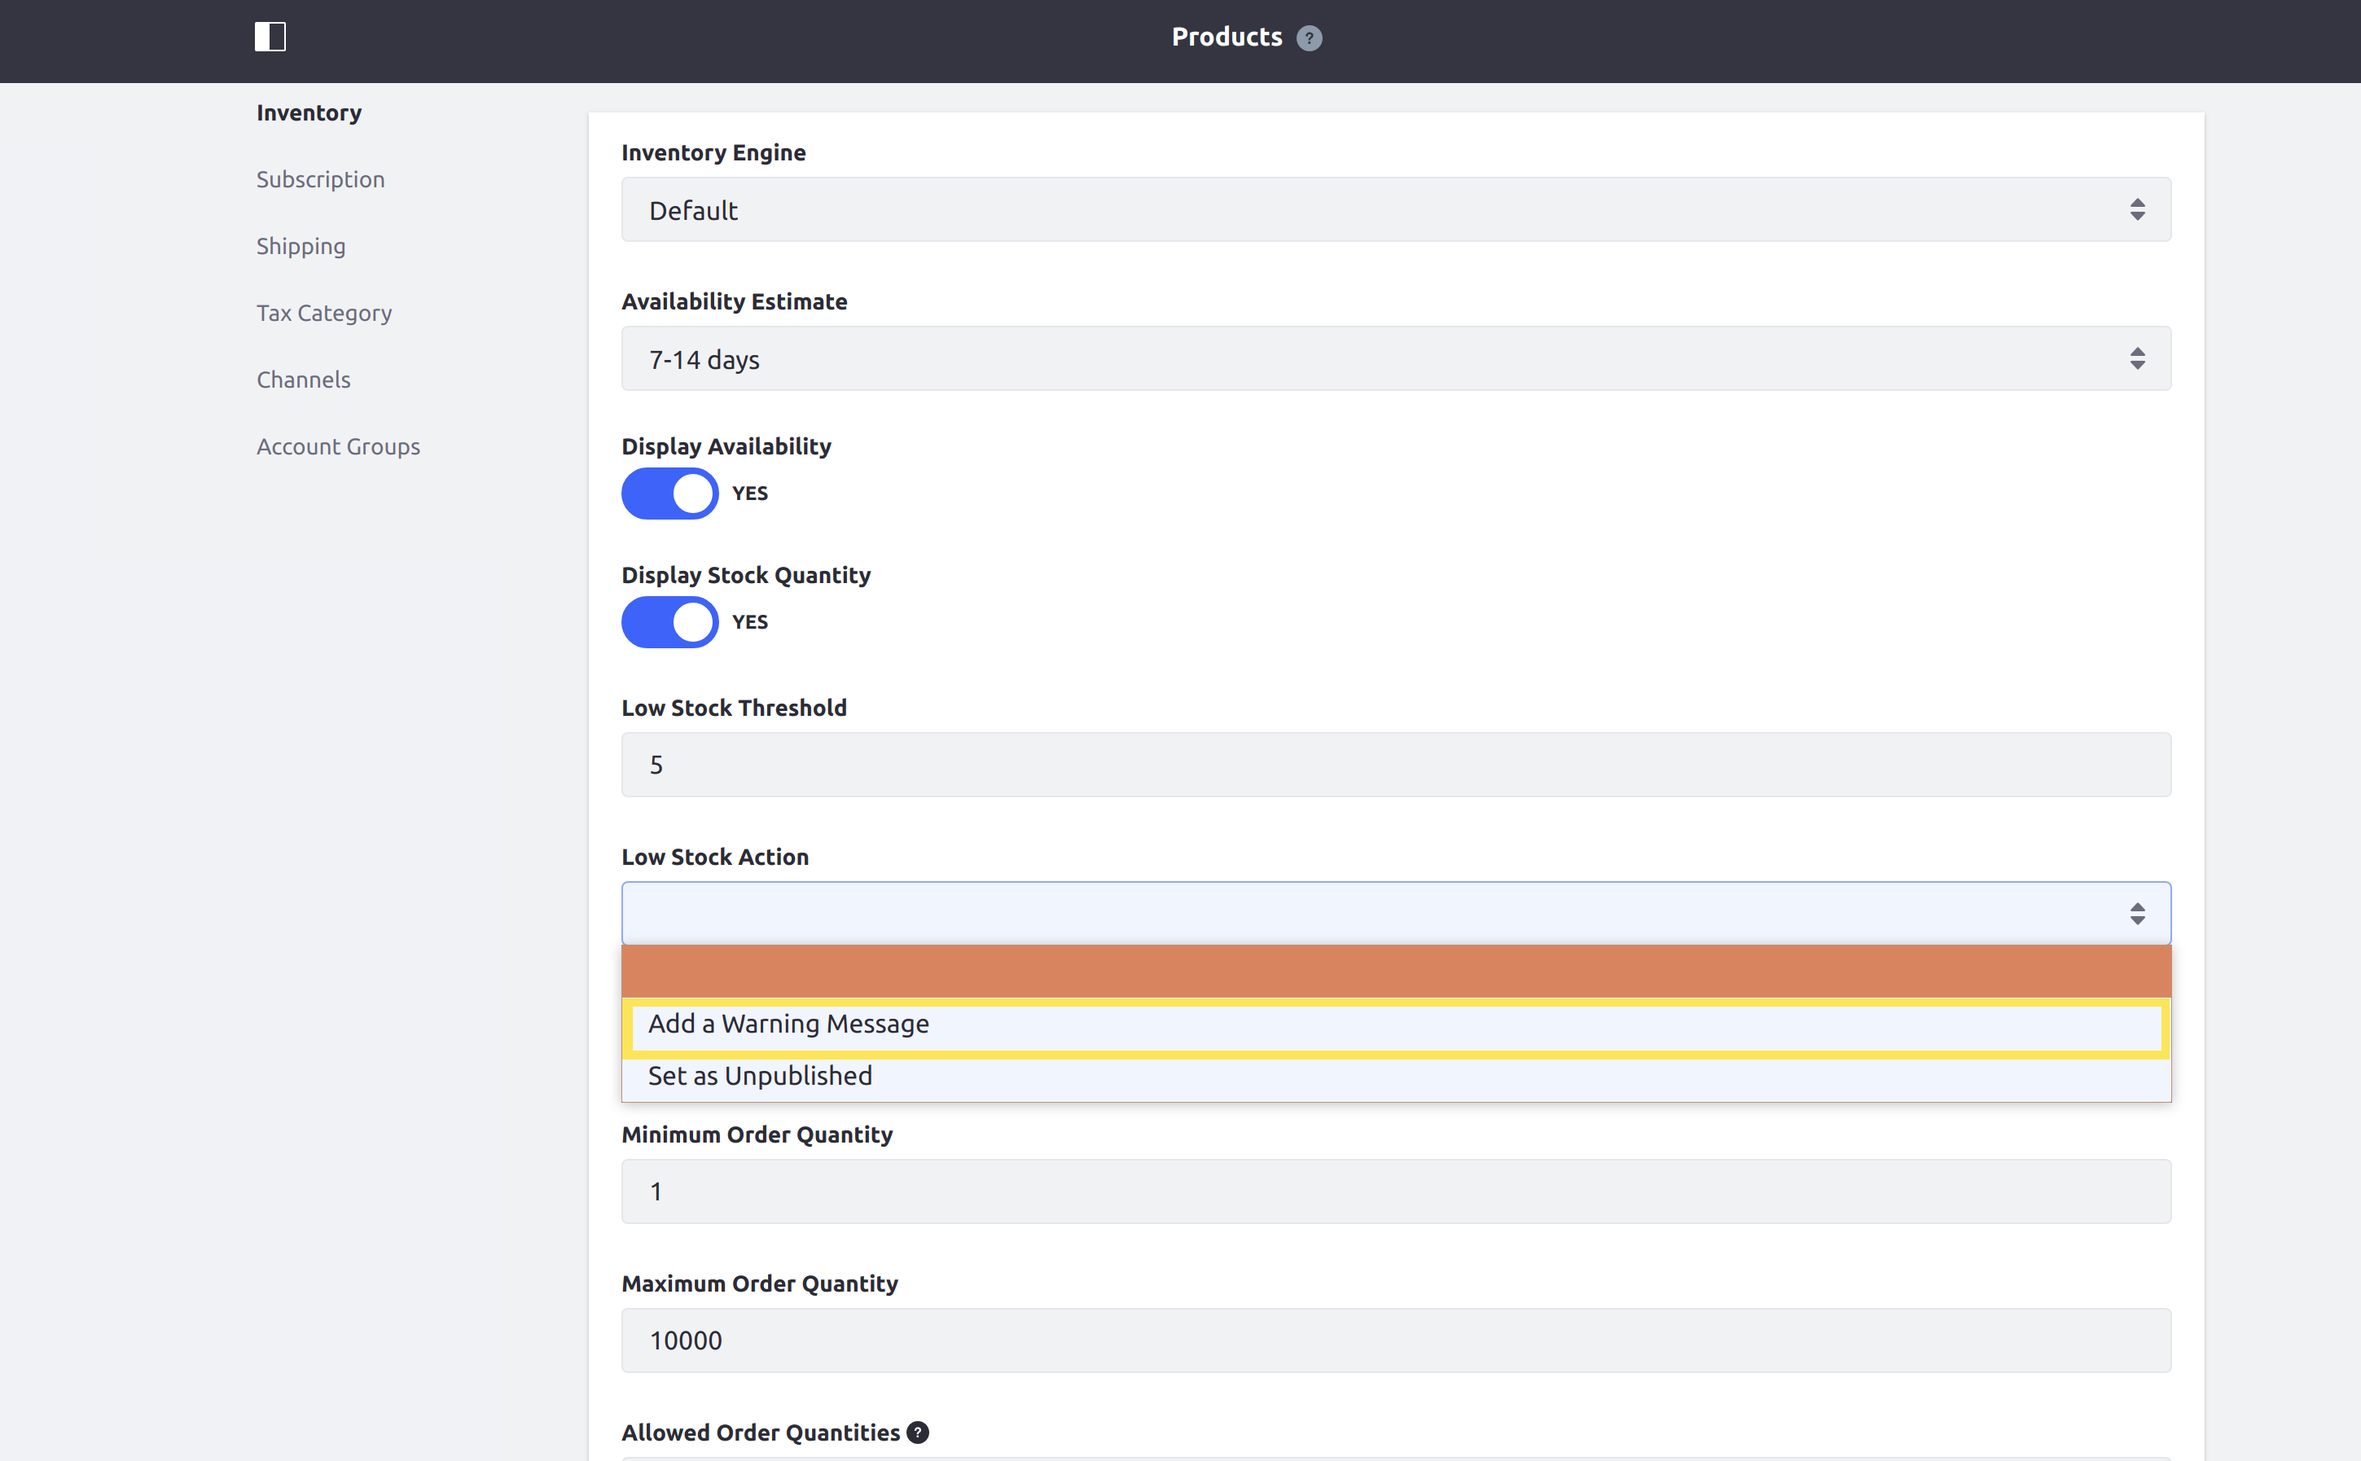
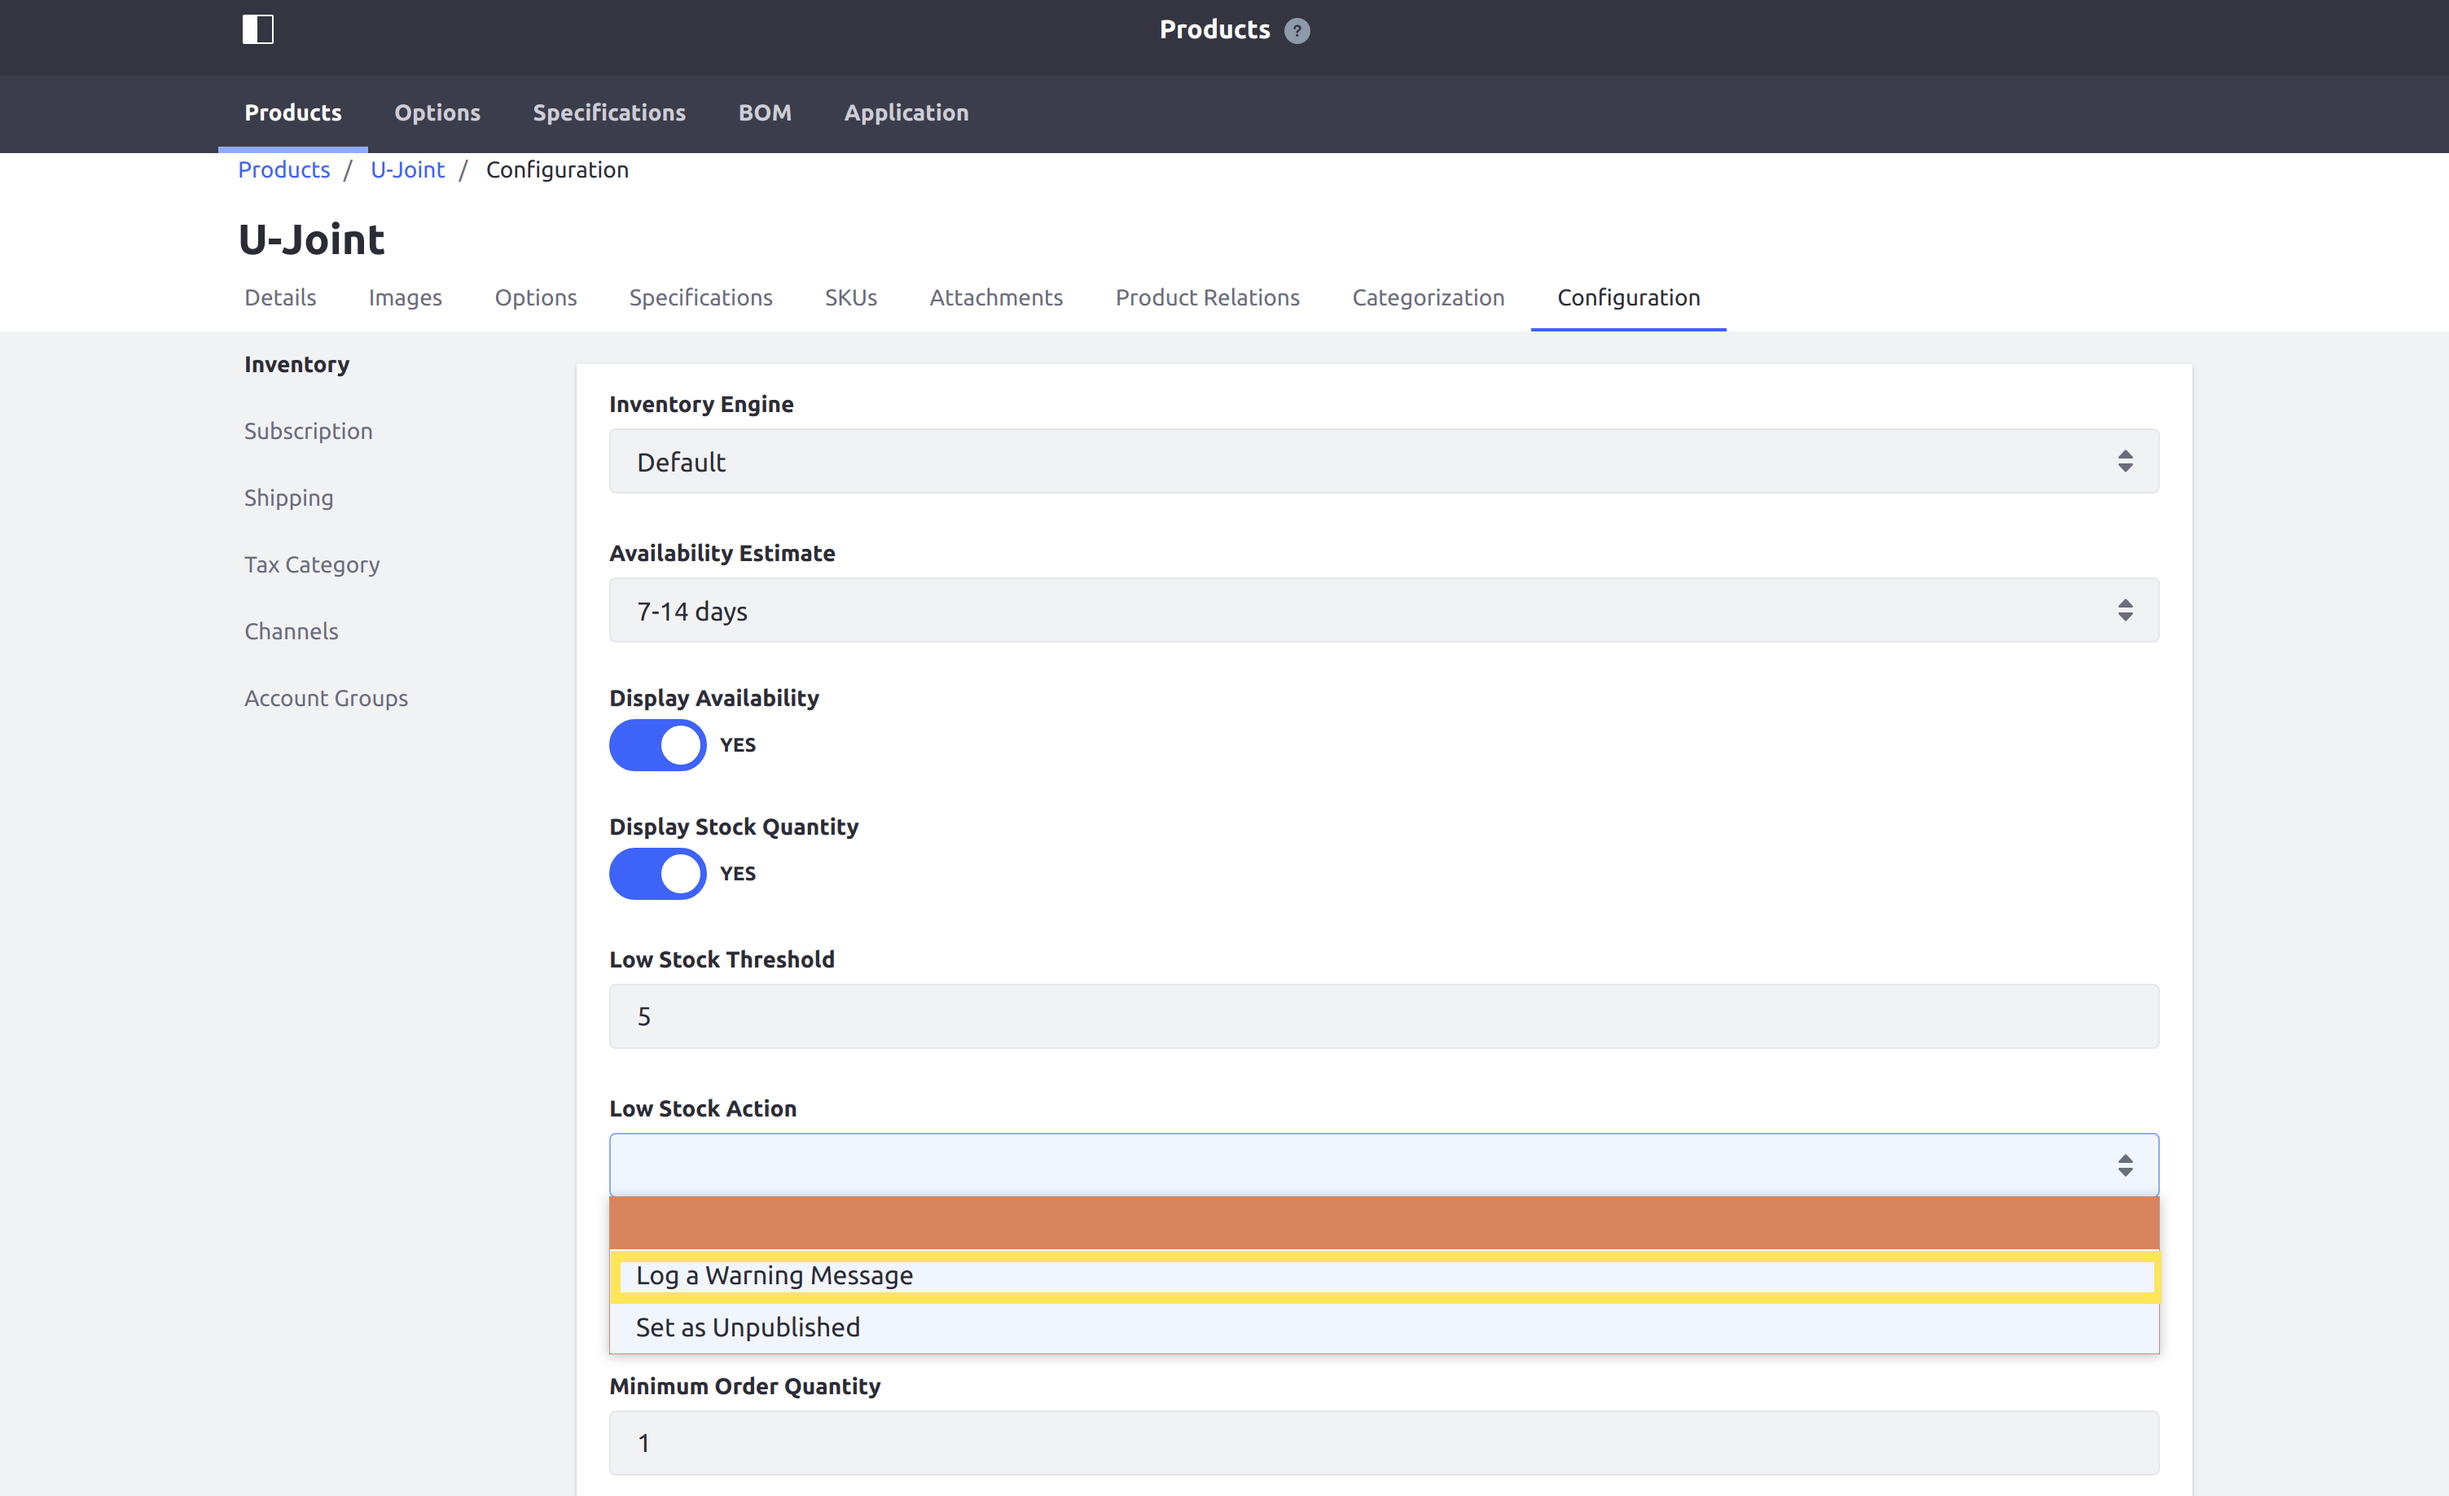
Correct example with new wording (and fix typo)

diff --git a/commerce/developer-guide/tutorial/implementing-a-custom-low-stock-activity/README.md b/commerce/developer-guide/tutorial/implementing-a-custom-low-stock-activity/README.md
@@ -54,7 +54,7 @@ In this section, we will get an example low stock activity up and running on you
 
 1. Verify that the example new low stock activity was added. Open your browser to `https://localhost:8080` and navigate to _Control Panel_ → _Commerce_ → _Products_. Then, for any product, click _Edit_ within its menu. If necessary, you can add a product to do this with (see [Products](https://commerce.liferay.dev/user-guide/-/knowledge_base/user/products) for help).
 
-   From there, navigate to _Configuration_. On this screen, under the _Low Stock Action_ dropdown, the new activity ("Add a warning message") will be present.
+   From there, navigate to _Configuration_. On this screen, under the _Low Stock Action_ dropdown, the new activity ("Log a warning message") will be present.
 
 ![New low stock activity](./images/02.png "New low stock activity")
 
@@ -80,7 +80,7 @@ public class J1E4CommerceLowStockActivity implements CommerceLowStockActivity {
     public static final String KEY = "example";
 ```
 
-> It is important to provide a distinct key for your payment method so that Liferay Commerce can distinguish your new low stock activity from others in the [low stock activity registry](https://raw.githubusercontent.com/liferay/com-liferay-commerce/7.1.x/commerce-api/src/main/java/com/liferay/commerce/stock/activity/CommerceLowStockActivityRegistry.java). Reusing a key that is already in use will override the existing associated activity.
+> It is important to provide a distinct key for your low stock activity so that Liferay Commerce can distinguish your new activity from others in the [low stock activity registry](https://raw.githubusercontent.com/liferay/com-liferay-commerce/7.1.x/commerce-api/src/main/java/com/liferay/commerce/stock/activity/CommerceLowStockActivityRegistry.java). Reusing a key that is already in use will override the existing associated activity.
 
 ### Implement the `CommerceLowStockActivity` Interface
 
